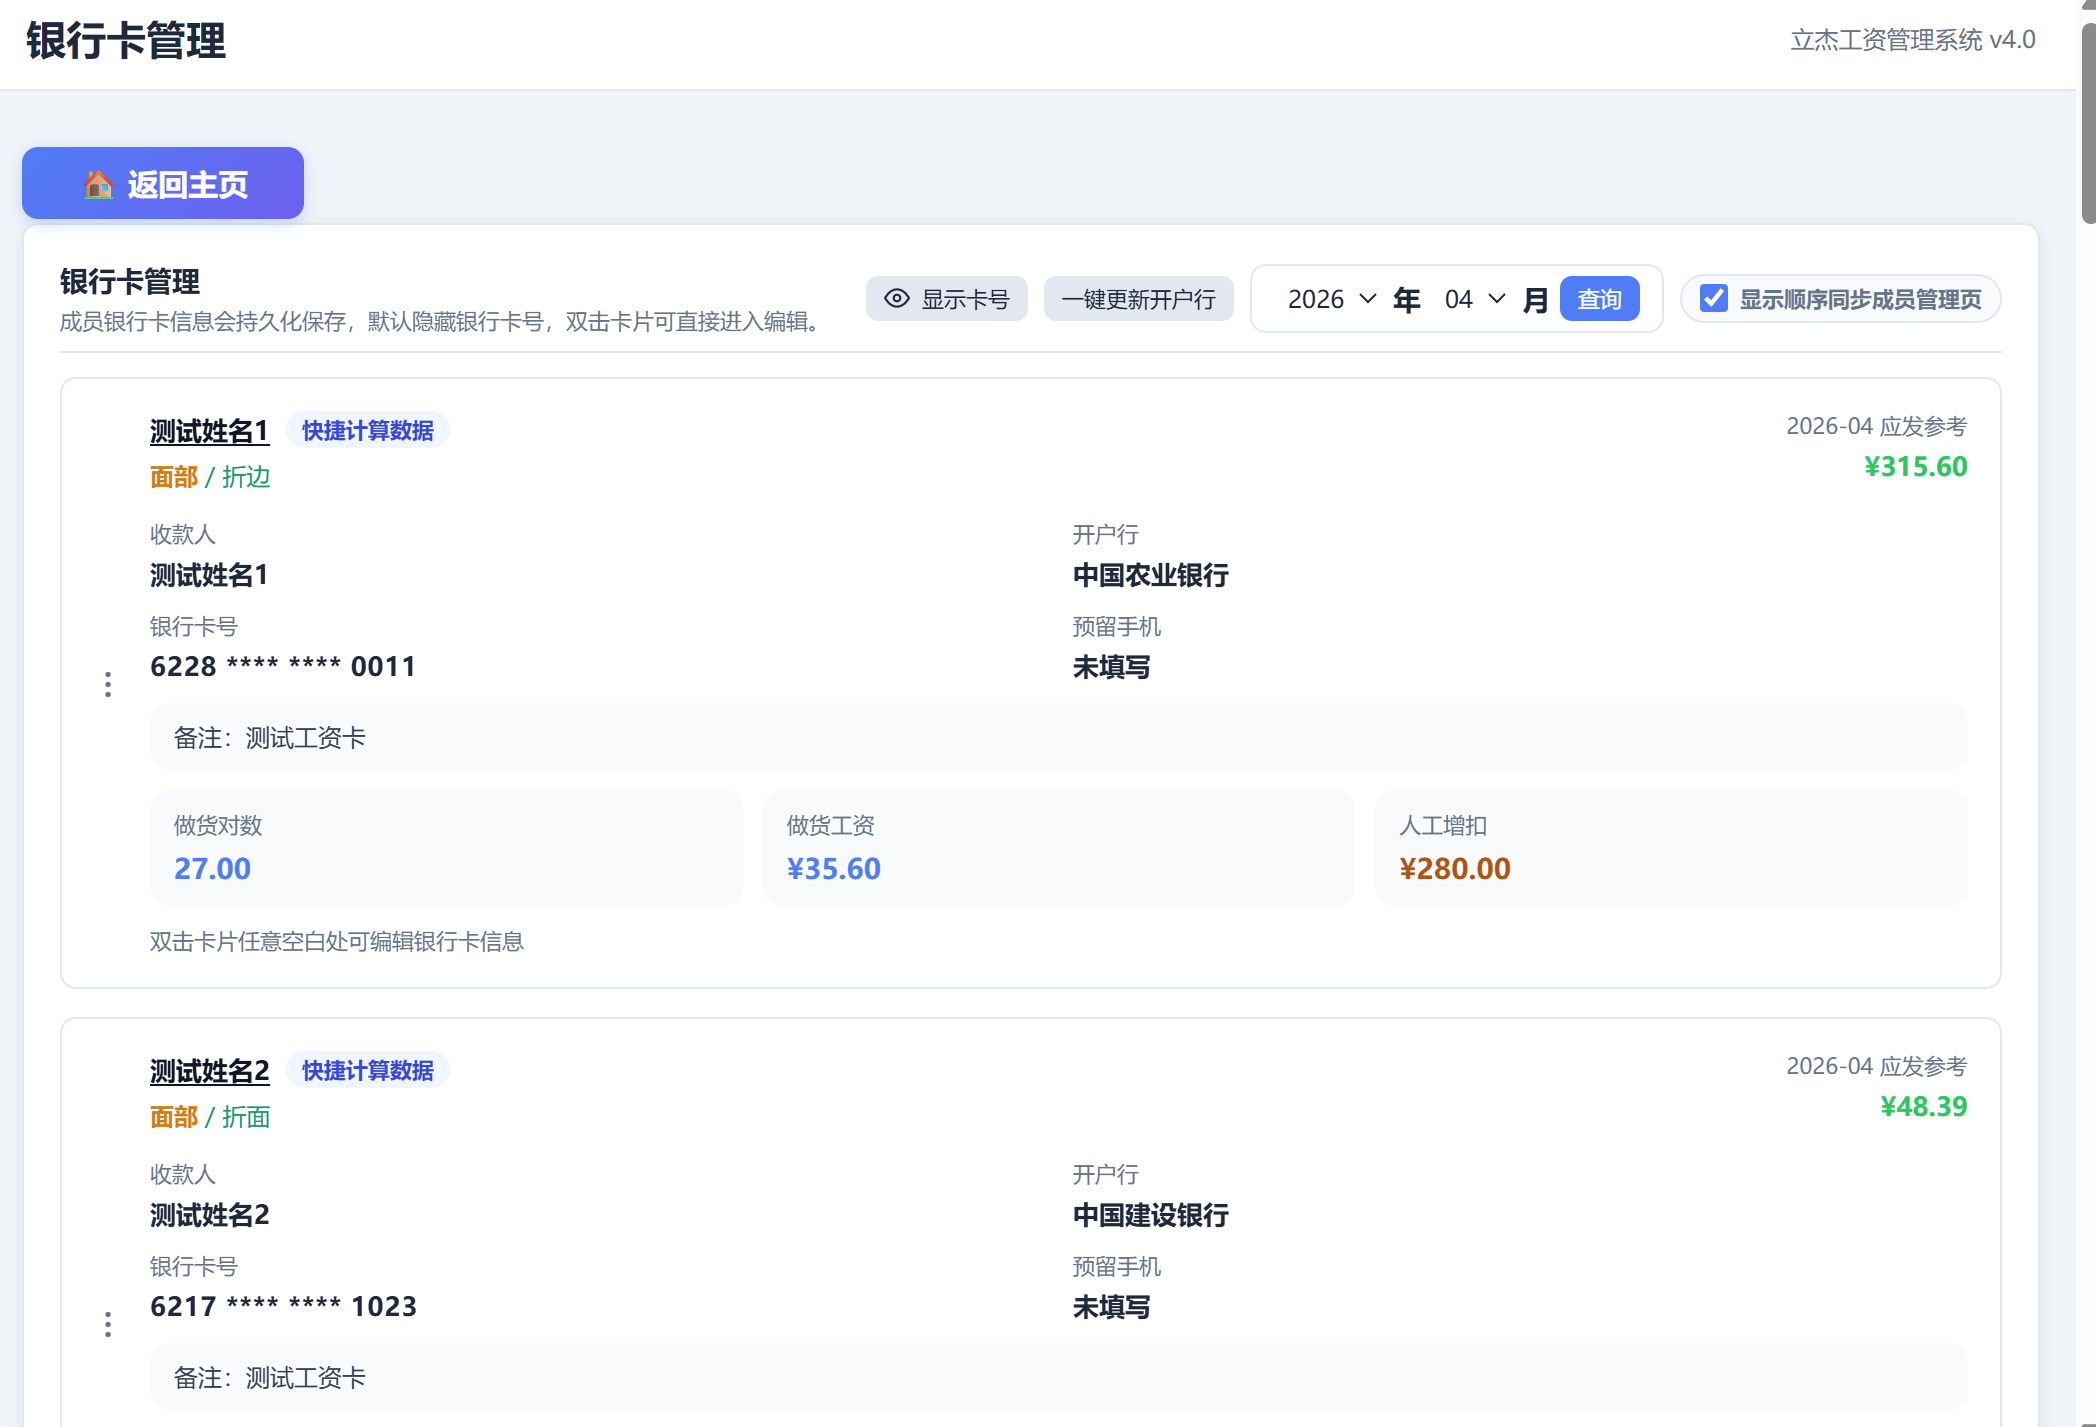
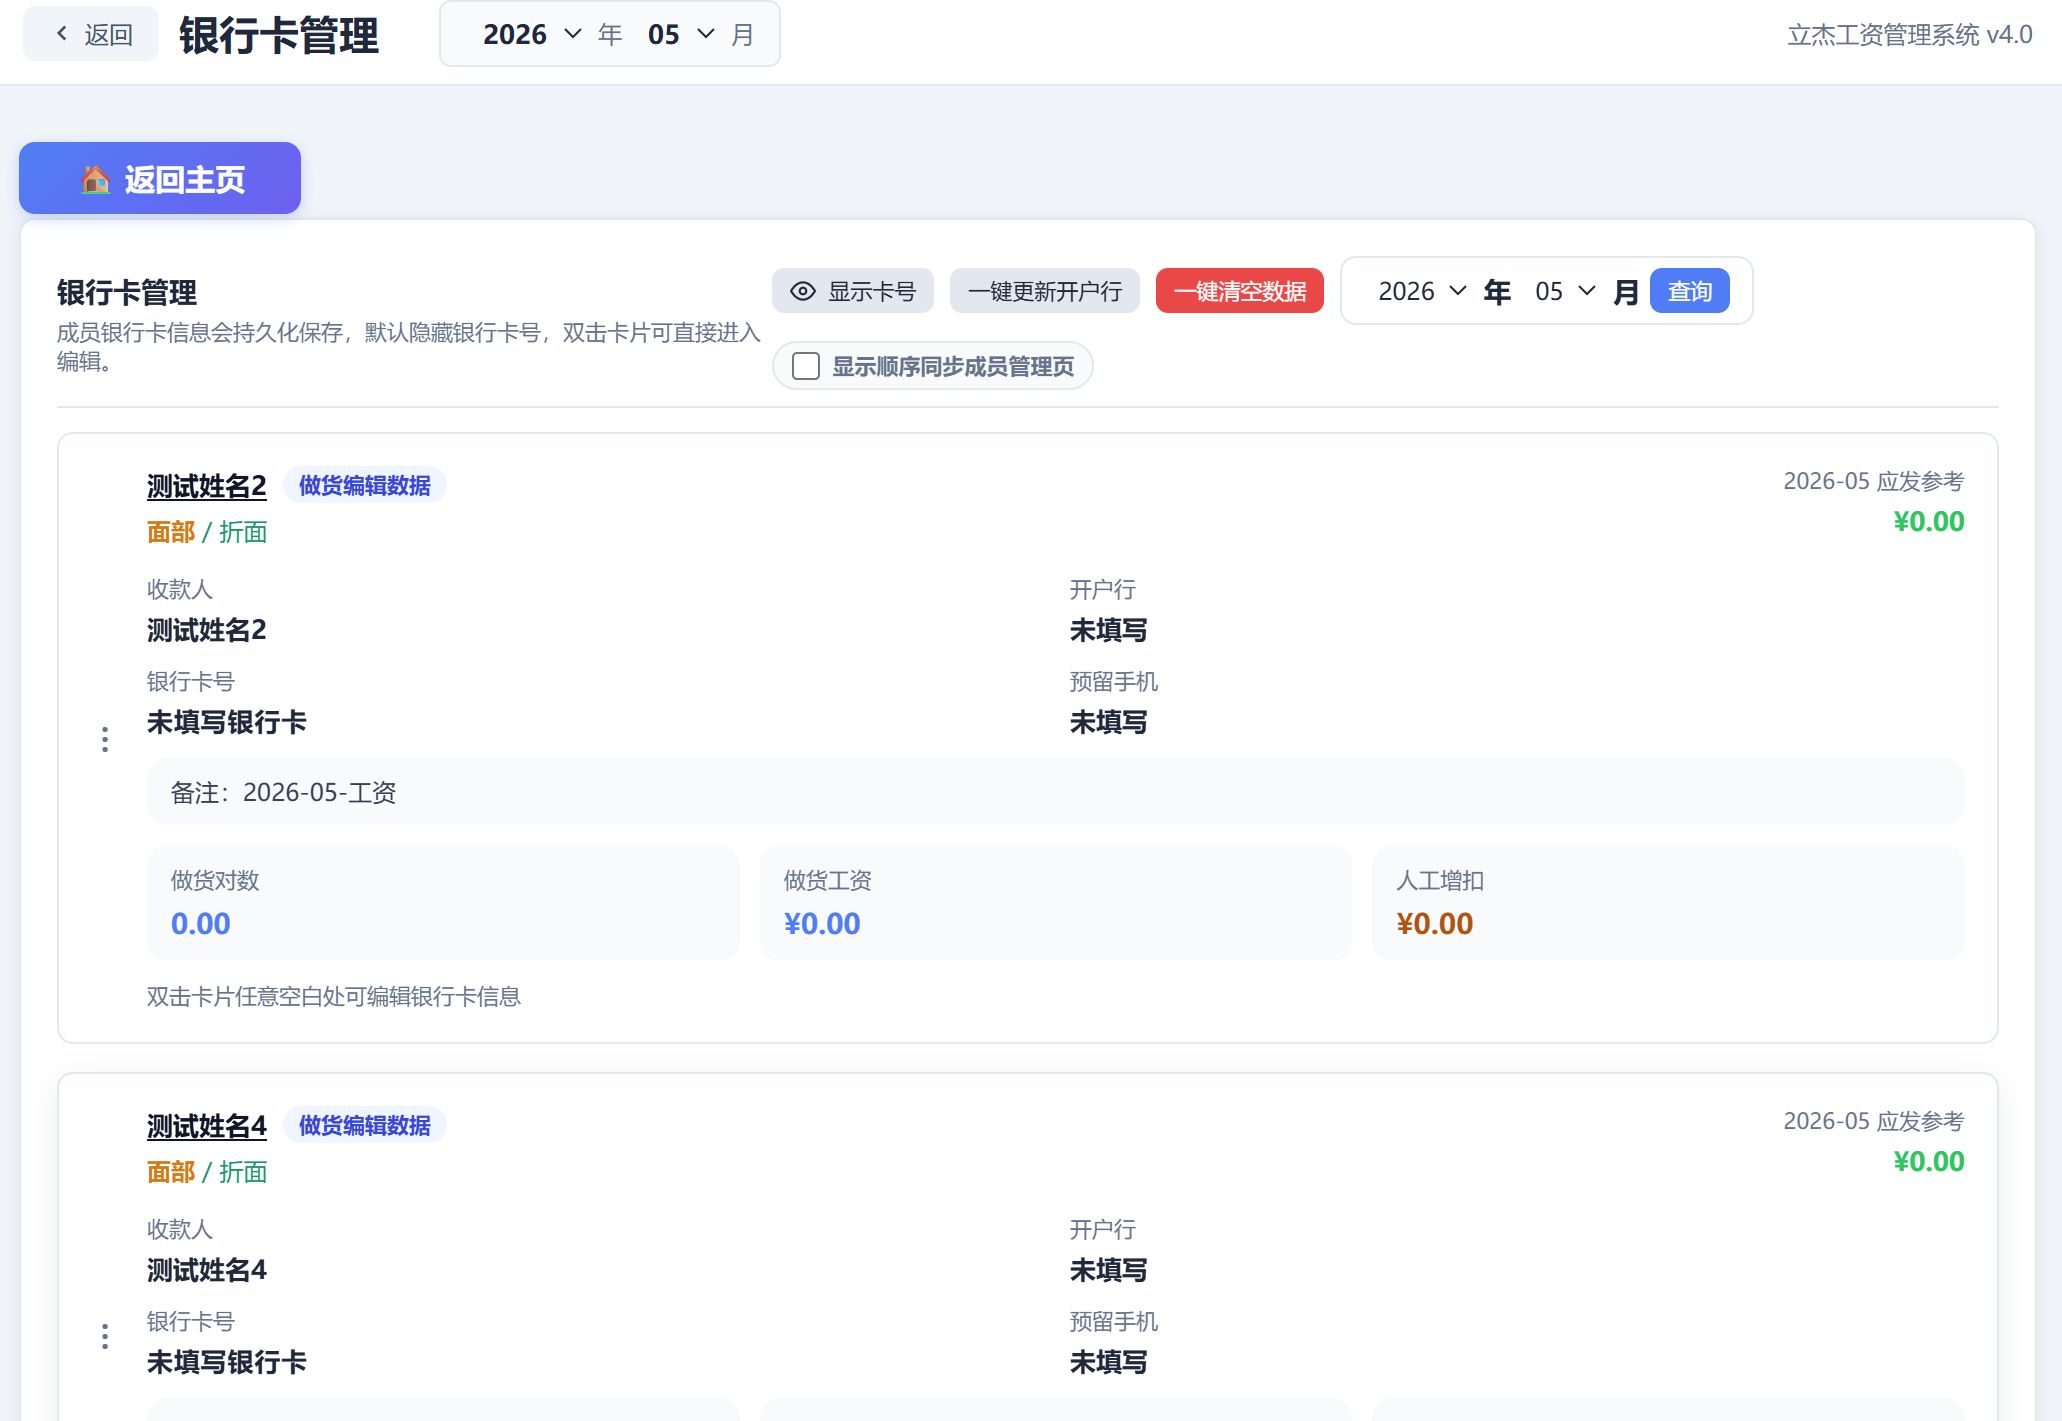
README更新

diff --git a/README.md b/README.md
@@ -44,6 +44,8 @@
 
 ![做货编辑](docs/images/screenshot-work-edit.png)
 
+![工资视角](docs/images/screenshot-work-edit-salary.png)
+
 ### 快捷计算
 
 快捷计算按大部门分组录入对数和单价，可实时计算行合计、部门合计和全厂合计。快捷计算可作为总工资表和成员详情的工资数据源。